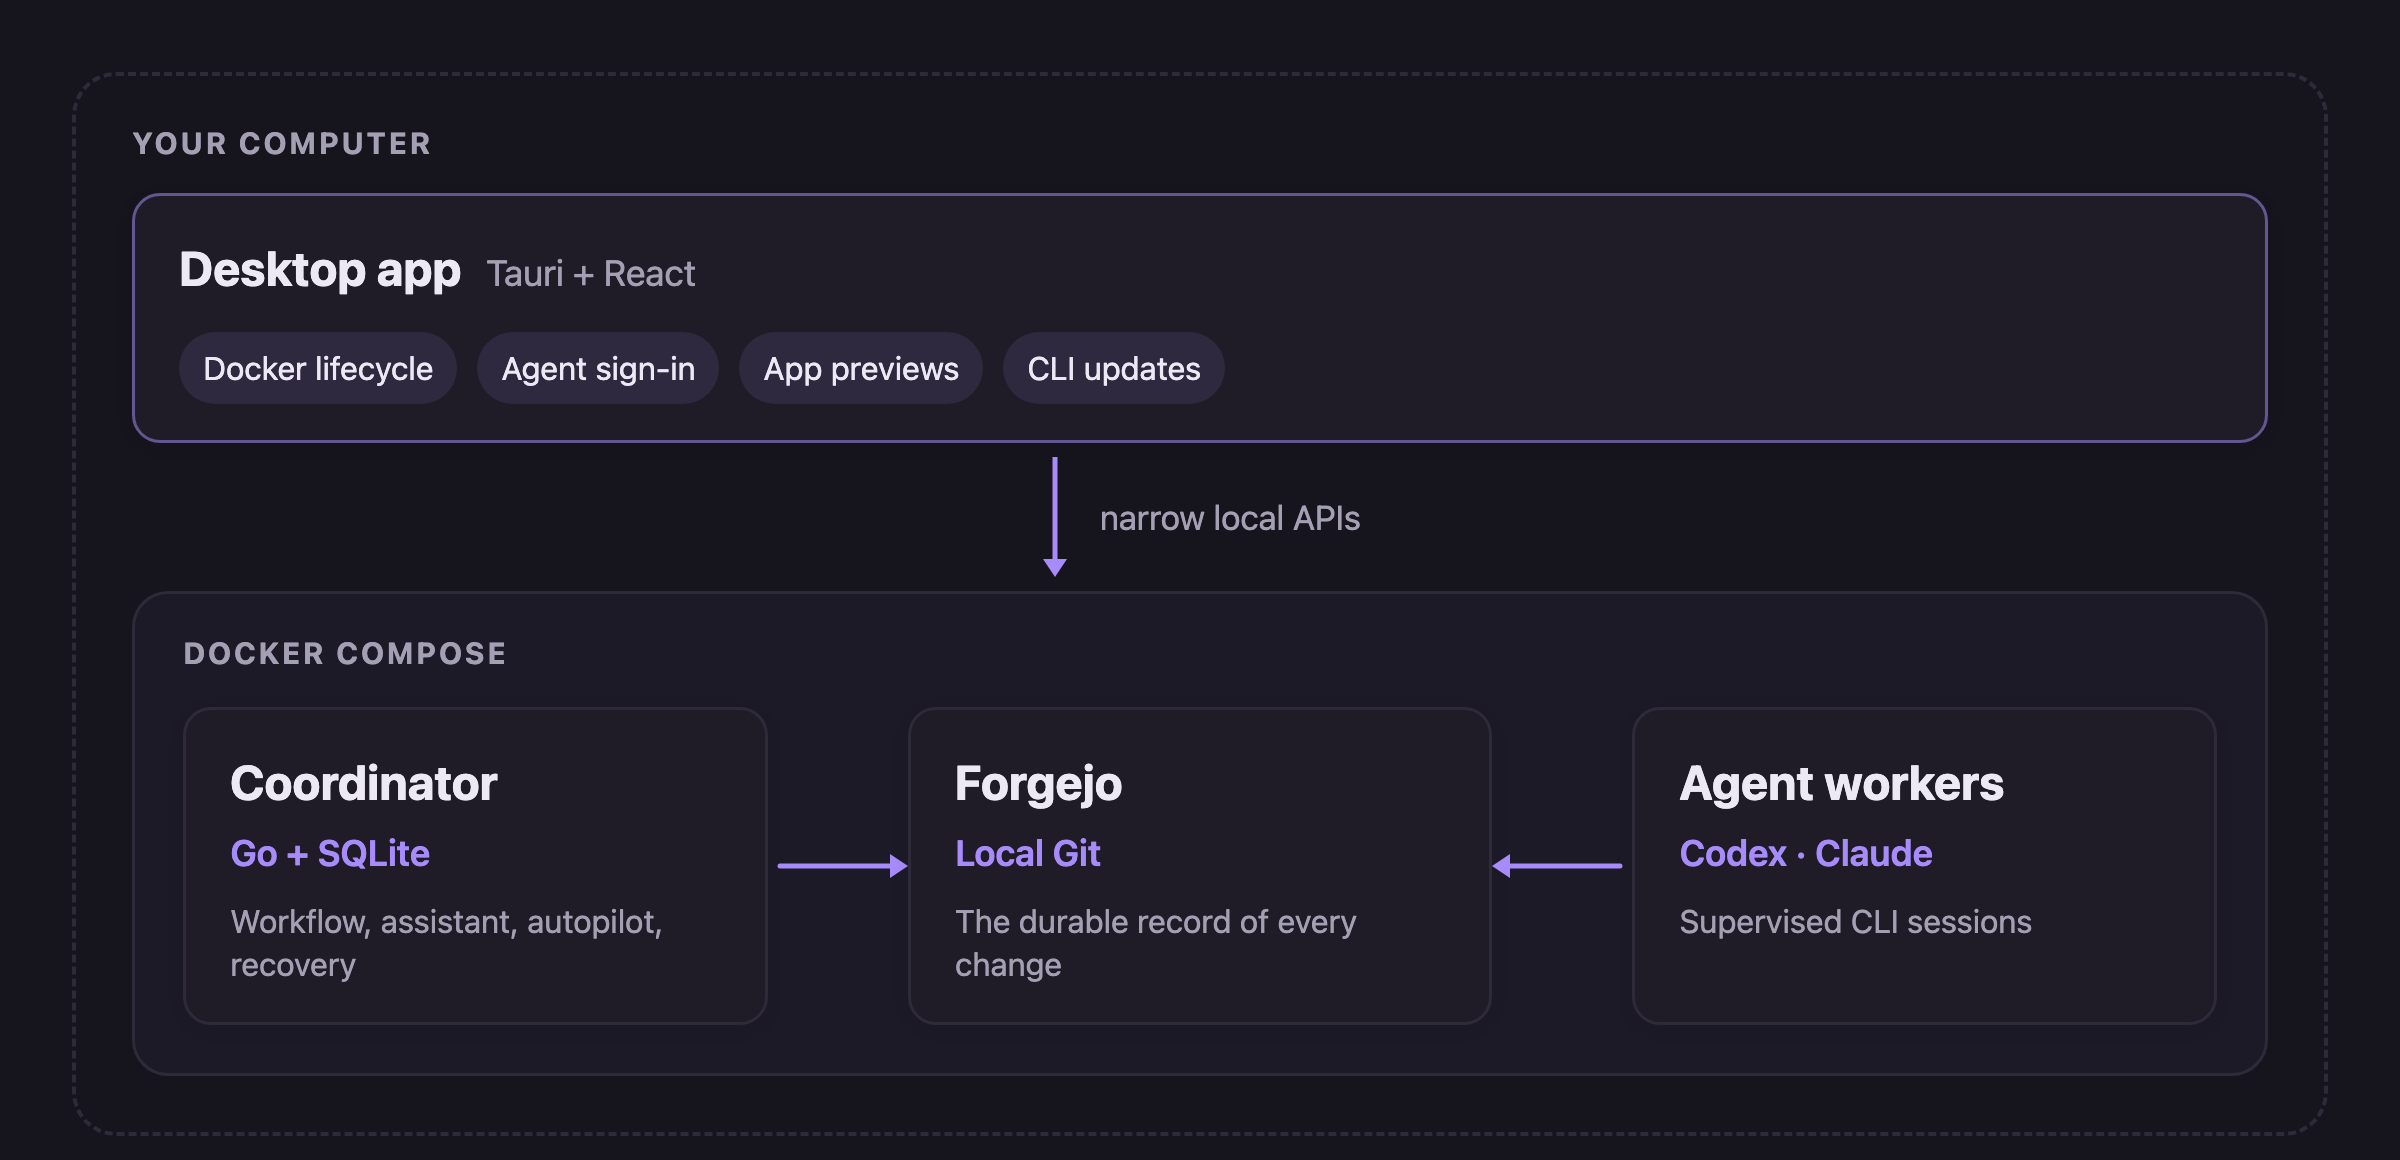
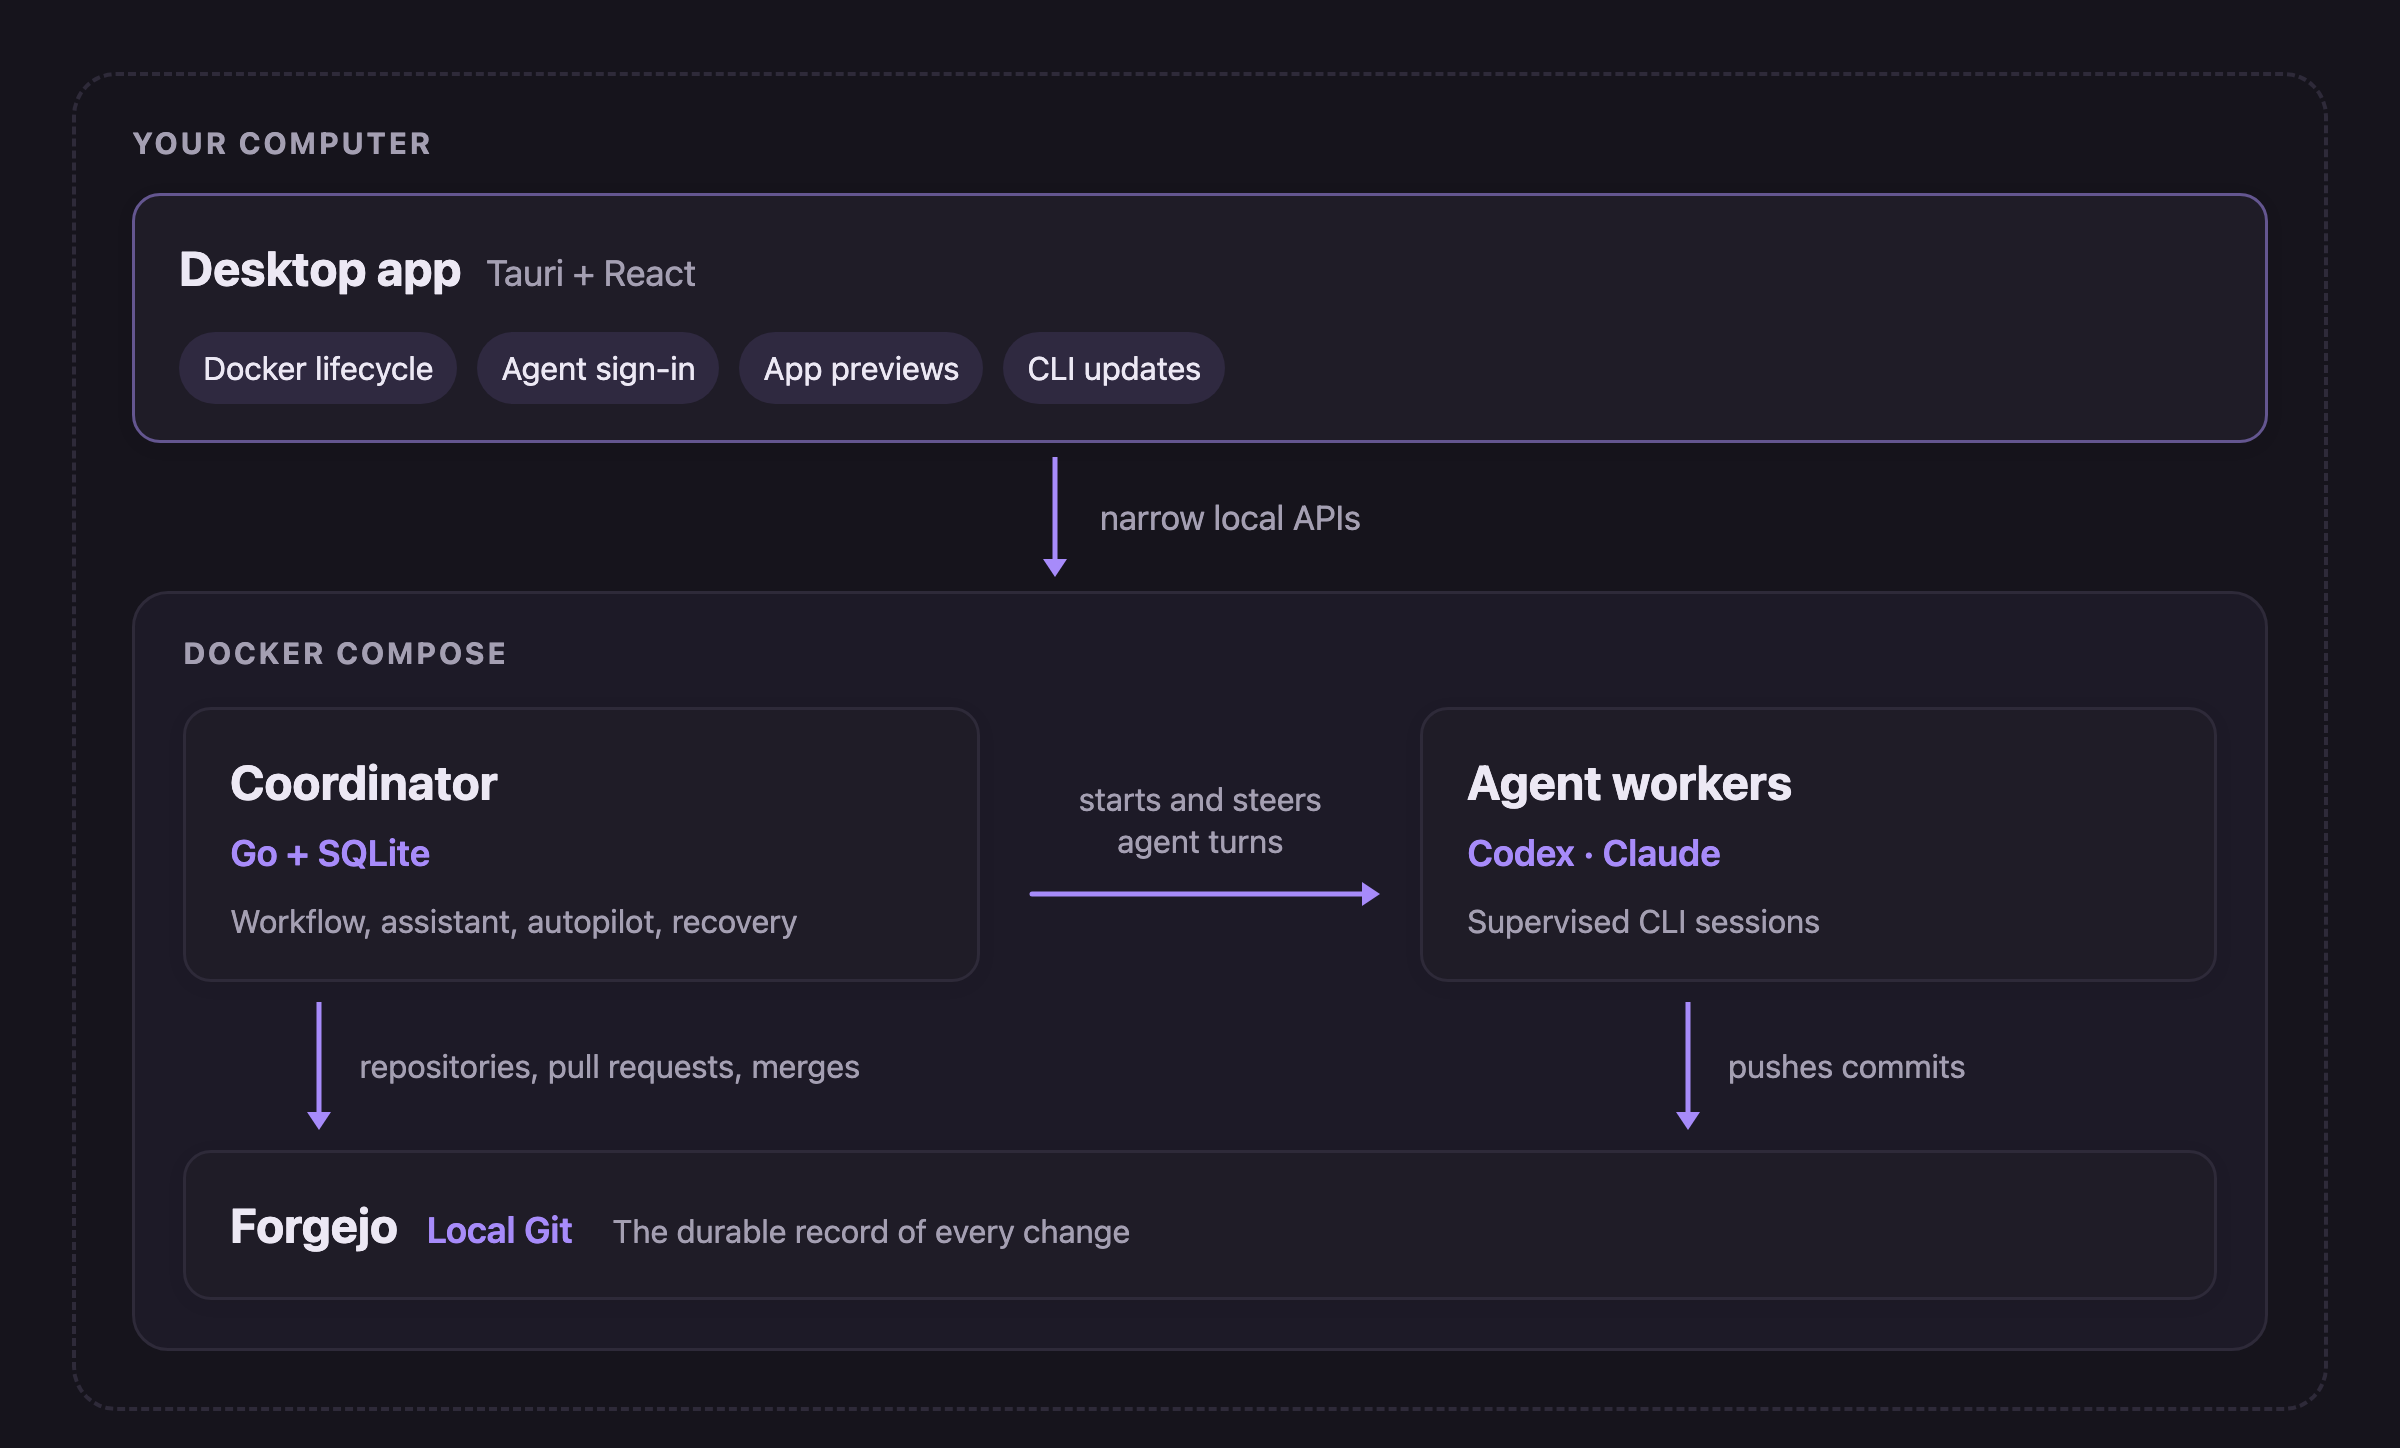
docs: show the coordinator driving the agent workers
The architecture image left out that the coordinator calls the workers'
API to start and steer agent turns. It now shows that arrow, with Forgejo
below as the place both keep their work.

diff --git a/video/src/Architecture.tsx b/video/src/Architecture.tsx
@@ -4,7 +4,10 @@ import { AbsoluteFill } from "remotion";
 // light and dark tokens), rendered as a still for each GitHub theme.
 
 export const ARCHITECTURE_WIDTH = 1200;
-export const ARCHITECTURE_HEIGHT = 580;
+export const ARCHITECTURE_HEIGHT = 724;
+
+// The space between the coordinator and the workers, for the arrow and its label.
+const GAP = 220;
 
 const THEMES = {
   light: {
@@ -66,7 +69,6 @@ export function Architecture({ theme }: { theme: "light" | "dark" }) {
 
         <div
           style={{
-            flex: 1,
             background: `color-mix(in srgb, ${t.accent} 5%, ${t.bg})`,
             border: `1.5px solid ${t.border}`,
             borderRadius: 18,
@@ -76,25 +78,39 @@ export function Architecture({ theme }: { theme: "light" | "dark" }) {
           }}
         >
           <Label t={t}>Docker Compose</Label>
-          <div style={{ flex: 1, display: "flex", alignItems: "stretch", marginTop: 16 }}>
+          {/* The coordinator drives the workers; both keep their work in Forgejo. */}
+          <div style={{ display: "flex", alignItems: "stretch", marginTop: 16 }}>
             <Box t={t} style={{ flex: 1 }}>
               <Title>Coordinator</Title>
               <Sub t={t}>Go + SQLite</Sub>
               <Note t={t}>Workflow, assistant, autopilot, recovery</Note>
             </Box>
-            <Arrow t={t} direction="right" length={70} />
-            <Box t={t} style={{ flex: 1 }}>
-              <Title>Forgejo</Title>
-              <Sub t={t}>Local Git</Sub>
-              <Note t={t}>The durable record of every change</Note>
-            </Box>
-            <Arrow t={t} direction="left" length={70} />
+            <div style={{ width: GAP, display: "flex", flexDirection: "column", alignItems: "center", justifyContent: "center", gap: 8 }}>
+              <span style={{ color: t.muted, fontSize: 16, textAlign: "center", lineHeight: 1.3 }}>
+                starts and steers
+                <br />
+                agent turns
+              </span>
+              <Arrow t={t} direction="right" length={GAP - 40} />
+            </div>
             <Box t={t} style={{ flex: 1 }}>
               <Title>Agent workers</Title>
               <Sub t={t}>Codex · Claude</Sub>
               <Note t={t}>Supervised CLI sessions</Note>
             </Box>
           </div>
+          <div style={{ display: "flex", height: 84 }}>
+            <Down t={t} label="repositories, pull requests, merges" />
+            <div style={{ width: GAP }} />
+            <Down t={t} label="pushes commits" />
+          </div>
+          <Box t={t}>
+            <div style={{ display: "flex", alignItems: "baseline", gap: 14 }}>
+              <Title>Forgejo</Title>
+              <Sub t={t}>Local Git</Sub>
+              <span style={{ fontSize: 16, color: t.muted, marginLeft: 6 }}>The durable record of every change</span>
+            </div>
+          </Box>
         </div>
       </div>
     </AbsoluteFill>
@@ -135,6 +151,16 @@ const Label = ({ t, children }: { t: Theme; children: React.ReactNode }) => (
     {children}
   </div>
 );
+
+// A labelled arrow down from the box above, centred under it.
+function Down({ t, label }: { t: Theme; label: string }) {
+  return (
+    <div style={{ flex: 1, display: "flex", alignItems: "center", justifyContent: "center", gap: 12 }}>
+      <Arrow t={t} direction="down" length={64} />
+      <span style={{ color: t.muted, fontSize: 16 }}>{label}</span>
+    </div>
+  );
+}
 
 function Chips({ t, items }: { t: Theme; items: string[] }) {
   return (

diff --git a/README.md b/README.md
@@ -170,7 +170,7 @@ GitLab, or another remote is a separate step.
 
 <picture>
   <source media="(prefers-color-scheme: dark)" srcset="docs/media/architecture-dark.png">
-  <img alt="The desktop app talks over narrow local APIs to Docker Compose, where the coordinator and the agent workers both write to a local Forgejo, all on your computer" src="docs/media/architecture-light.png">
+  <img alt="On your computer, the desktop app talks over narrow local APIs to Docker Compose. There the coordinator starts and steers the agent workers, and both keep their work in a local Forgejo." src="docs/media/architecture-light.png">
 </picture>
 
 The Go coordinator owns the workflow state machine, the assistant, autopilot,
